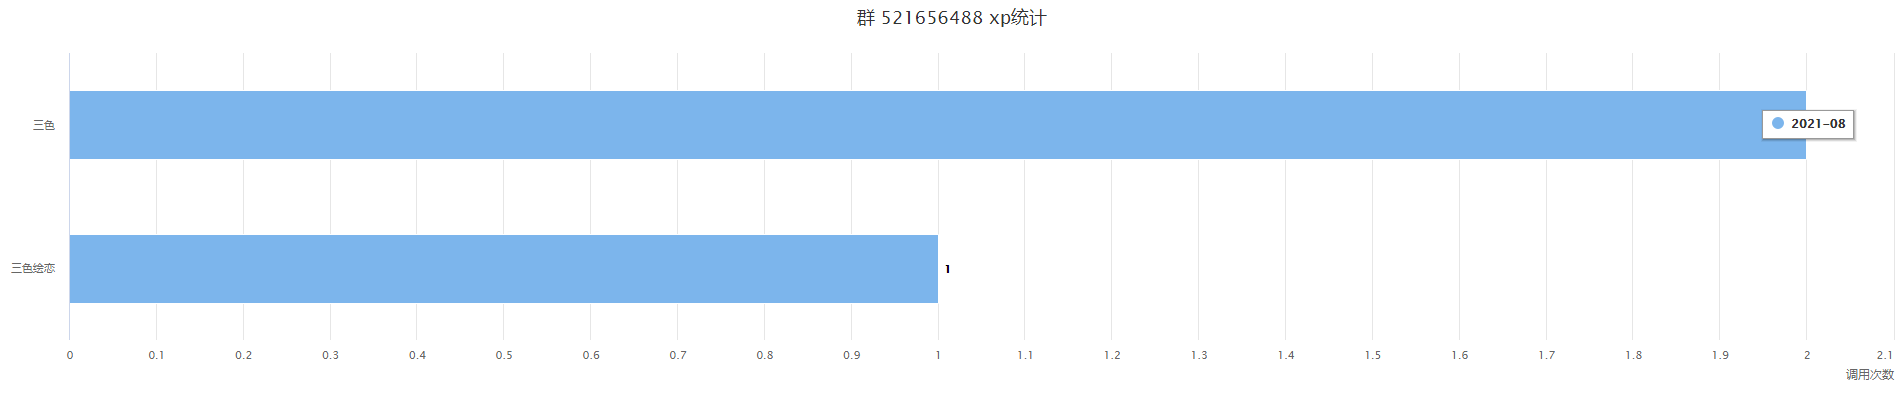
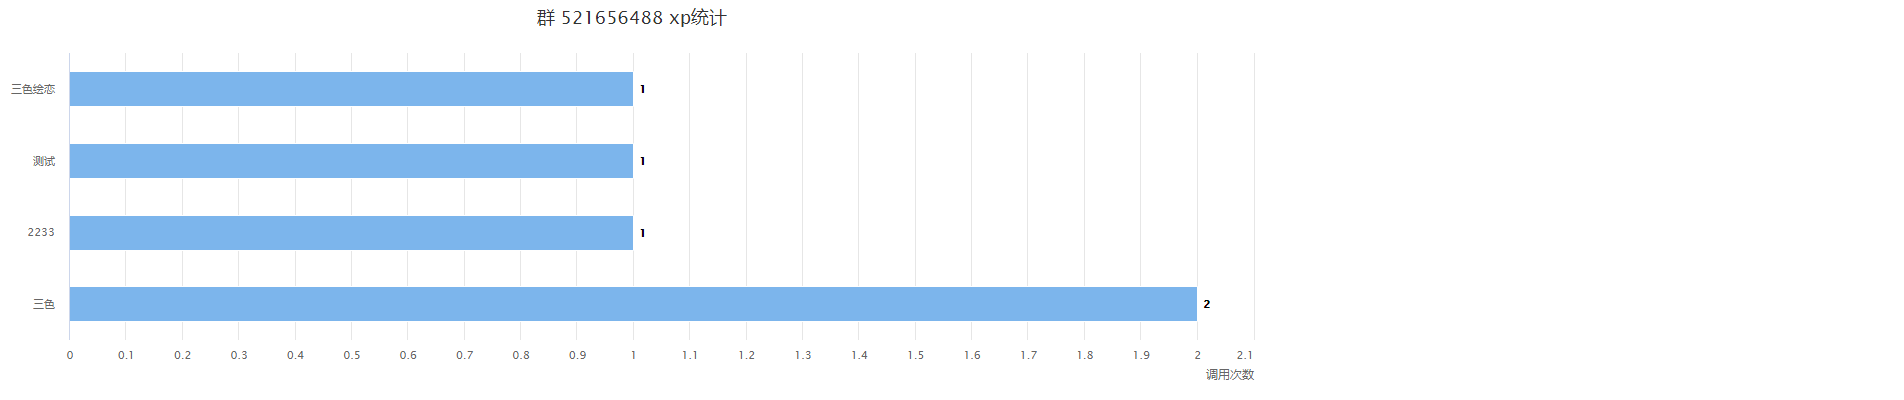
fix

diff --git a/resources/templates/statistic/temp/chart-521656488-xp.html b/resources/templates/statistic/temp/chart-521656488-xp.html
@@ -1,7 +1,7 @@
 <!--
  * @Author: FYWindIsland
  * @Date: 2021-08-20 16:16:19
- * @LastEditTime: 2021-08-20 19:03:15
+ * @LastEditTime: 2021-08-20 19:10:55
  * @LastEditors: FYWindIsland
  * @Description: 
  * I'm writing SHIT codes
@@ -41,7 +41,7 @@
                 text: '群 521656488 xp统计'
             },
             xAxis: {
-                categories: ['三色', '三色绘恋'],
+                categories: ['三色绘恋', '测试', '2233', '三色'],
                 title: {
                     text: null
                 }
@@ -76,11 +76,12 @@
                 floating: true,
                 borderWidth: 1,
                 backgroundColor: ((Highcharts.theme && Highcharts.theme.legendBackgroundColor) || '#FFFFFF'),
-                shadow: true
+                shadow: true,
+                enabled: false
             },
             series: [{
                 name: '2021-08',
-                data: [2, 1]
+                data: [1, 1, 1, 2]
             }]
         });
     </script>

diff --git a/plugins/stats_log/draw.py b/plugins/stats_log/draw.py
@@ -1,7 +1,7 @@
 """
 Author: FYWindIsland
 Date: 2021-08-20 17:05:54
-LastEditTime: 2021-08-21 17:26:01
+LastEditTime: 2021-08-21 17:35:07
 LastEditors: FYWindIsland
 Description: 
 I'm writing SHIT codes
@@ -59,11 +59,15 @@ async def draw_xp_stat(group_id: int):
     with open(f"{TEMPLATE_PATH}statistic/chart.html", "r", encoding="utf-8") as f:
         template = str(f.read())
     p_stat = await query_illust_statue(group_id)
-    p_stat_sorted = dict(sorted(p_stat.items(), key=lambda item: item[1]))
+    p_stat_sorted = dict(sorted(p_stat.items(), key=lambda item: item[1], reverse=True))
     p_stat_final: dict[str, int] = {}
     for i in range(0, 5):
-        key = list(p_stat_sorted.keys())[i]
-        p_stat_final.update({key: p_stat_sorted[key]})
+        try:
+            key = list(p_stat_sorted.keys())[i]
+            p_stat_final.update({key: p_stat_sorted[key]})
+        except:
+            break
+    print(p_stat_final)
     template = template.replace("本月插件调用统计", "xp统计")
     template = template.replace("[group-id]", str(group_id))
     date = time.strftime("%Y-%m", time.localtime(time.time()))

diff --git a/test.py b/test.py
@@ -1,7 +1,7 @@
 """
 Author: FYWindIsland
 Date: 2021-08-16 22:22:53
-LastEditTime: 2021-08-21 17:18:53
+LastEditTime: 2021-08-21 17:28:17
 LastEditors: FYWindIsland
 Description: 
 I'm writing SHIT codes
@@ -13,4 +13,5 @@ from configs.path_config import VOICE_PATH
 
 voices: dict[str, int] = {"test": 0, "test1": 5, "test3": 1}
 
-print(dict(sorted(voices.items(), key=lambda item: item[1])))
+di = dict(sorted(voices.items(), key=lambda item: item[1]))
+print(di.keys())
